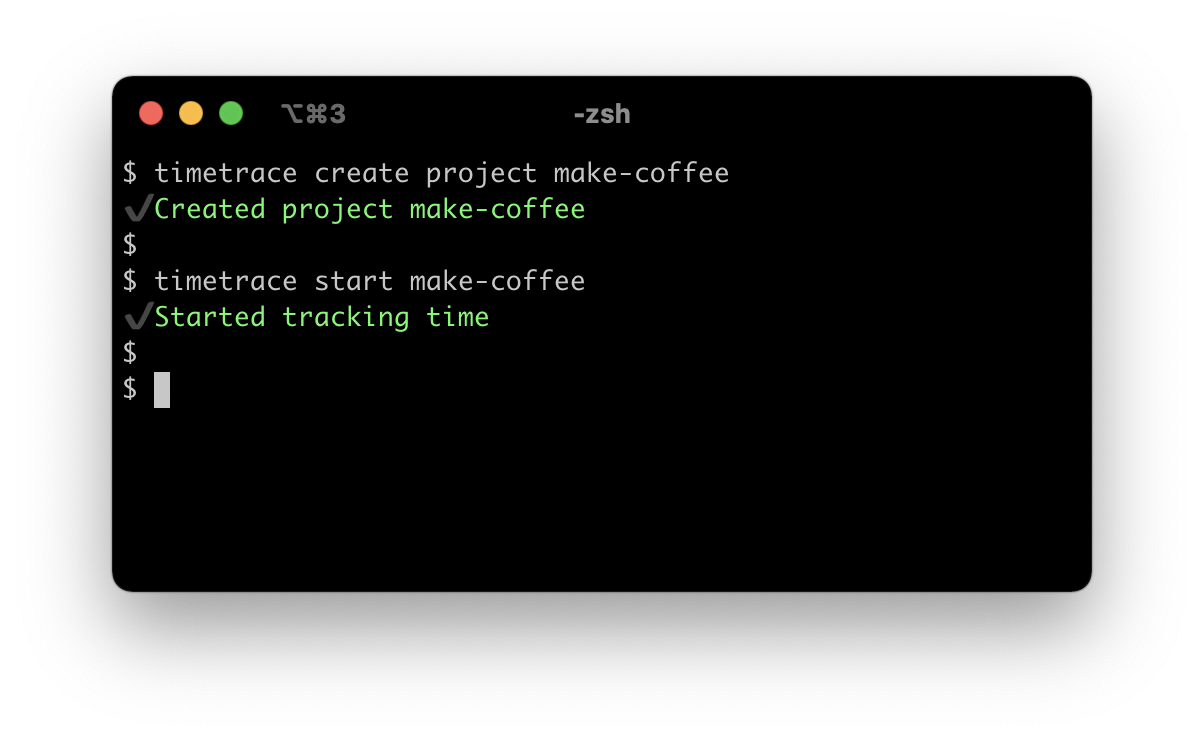
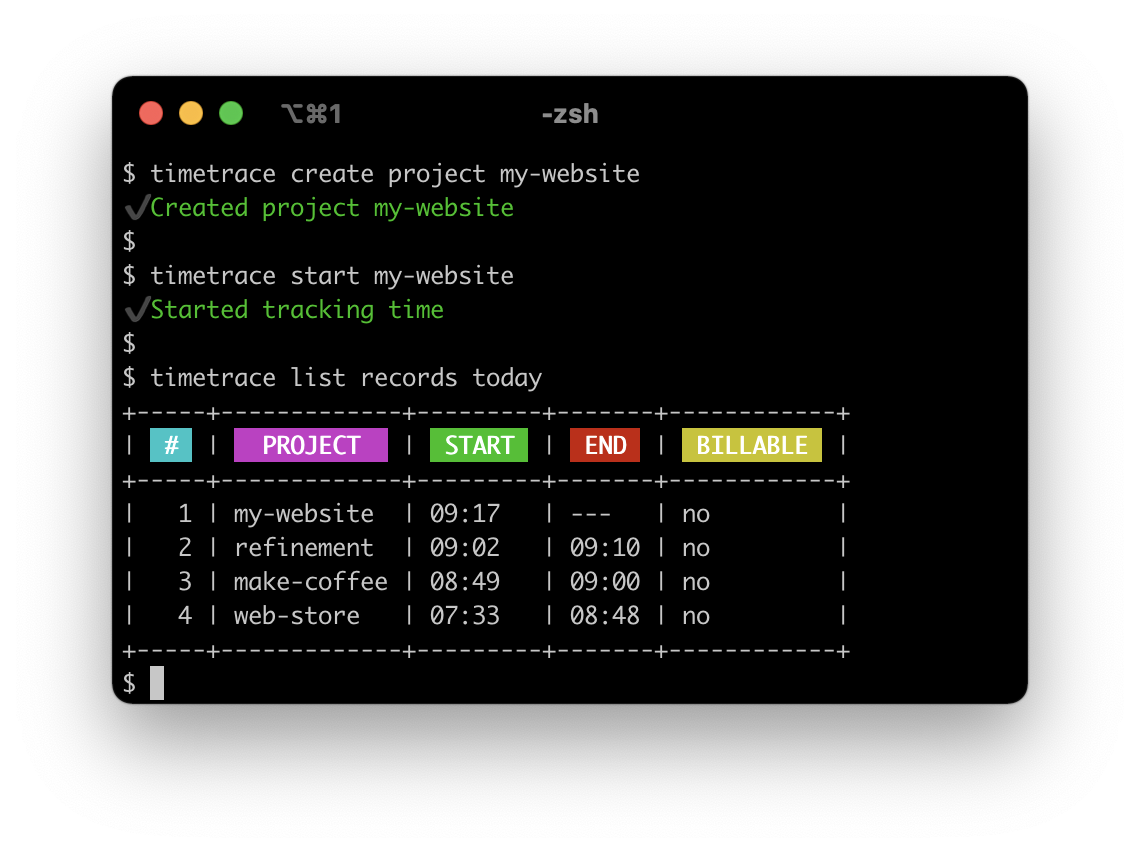
Replace timetrace screenshot

diff --git a/README.md b/README.md
@@ -7,7 +7,7 @@
 
 > timetrace is a simple CLI for tracking your working time.
 
-![CLI screenshot](timetrace.png)
+![CLI screenshot 64x16](timetrace.png)
 
 :fire: **New:** [Editing records is now possible](#edit-a-record)
 
